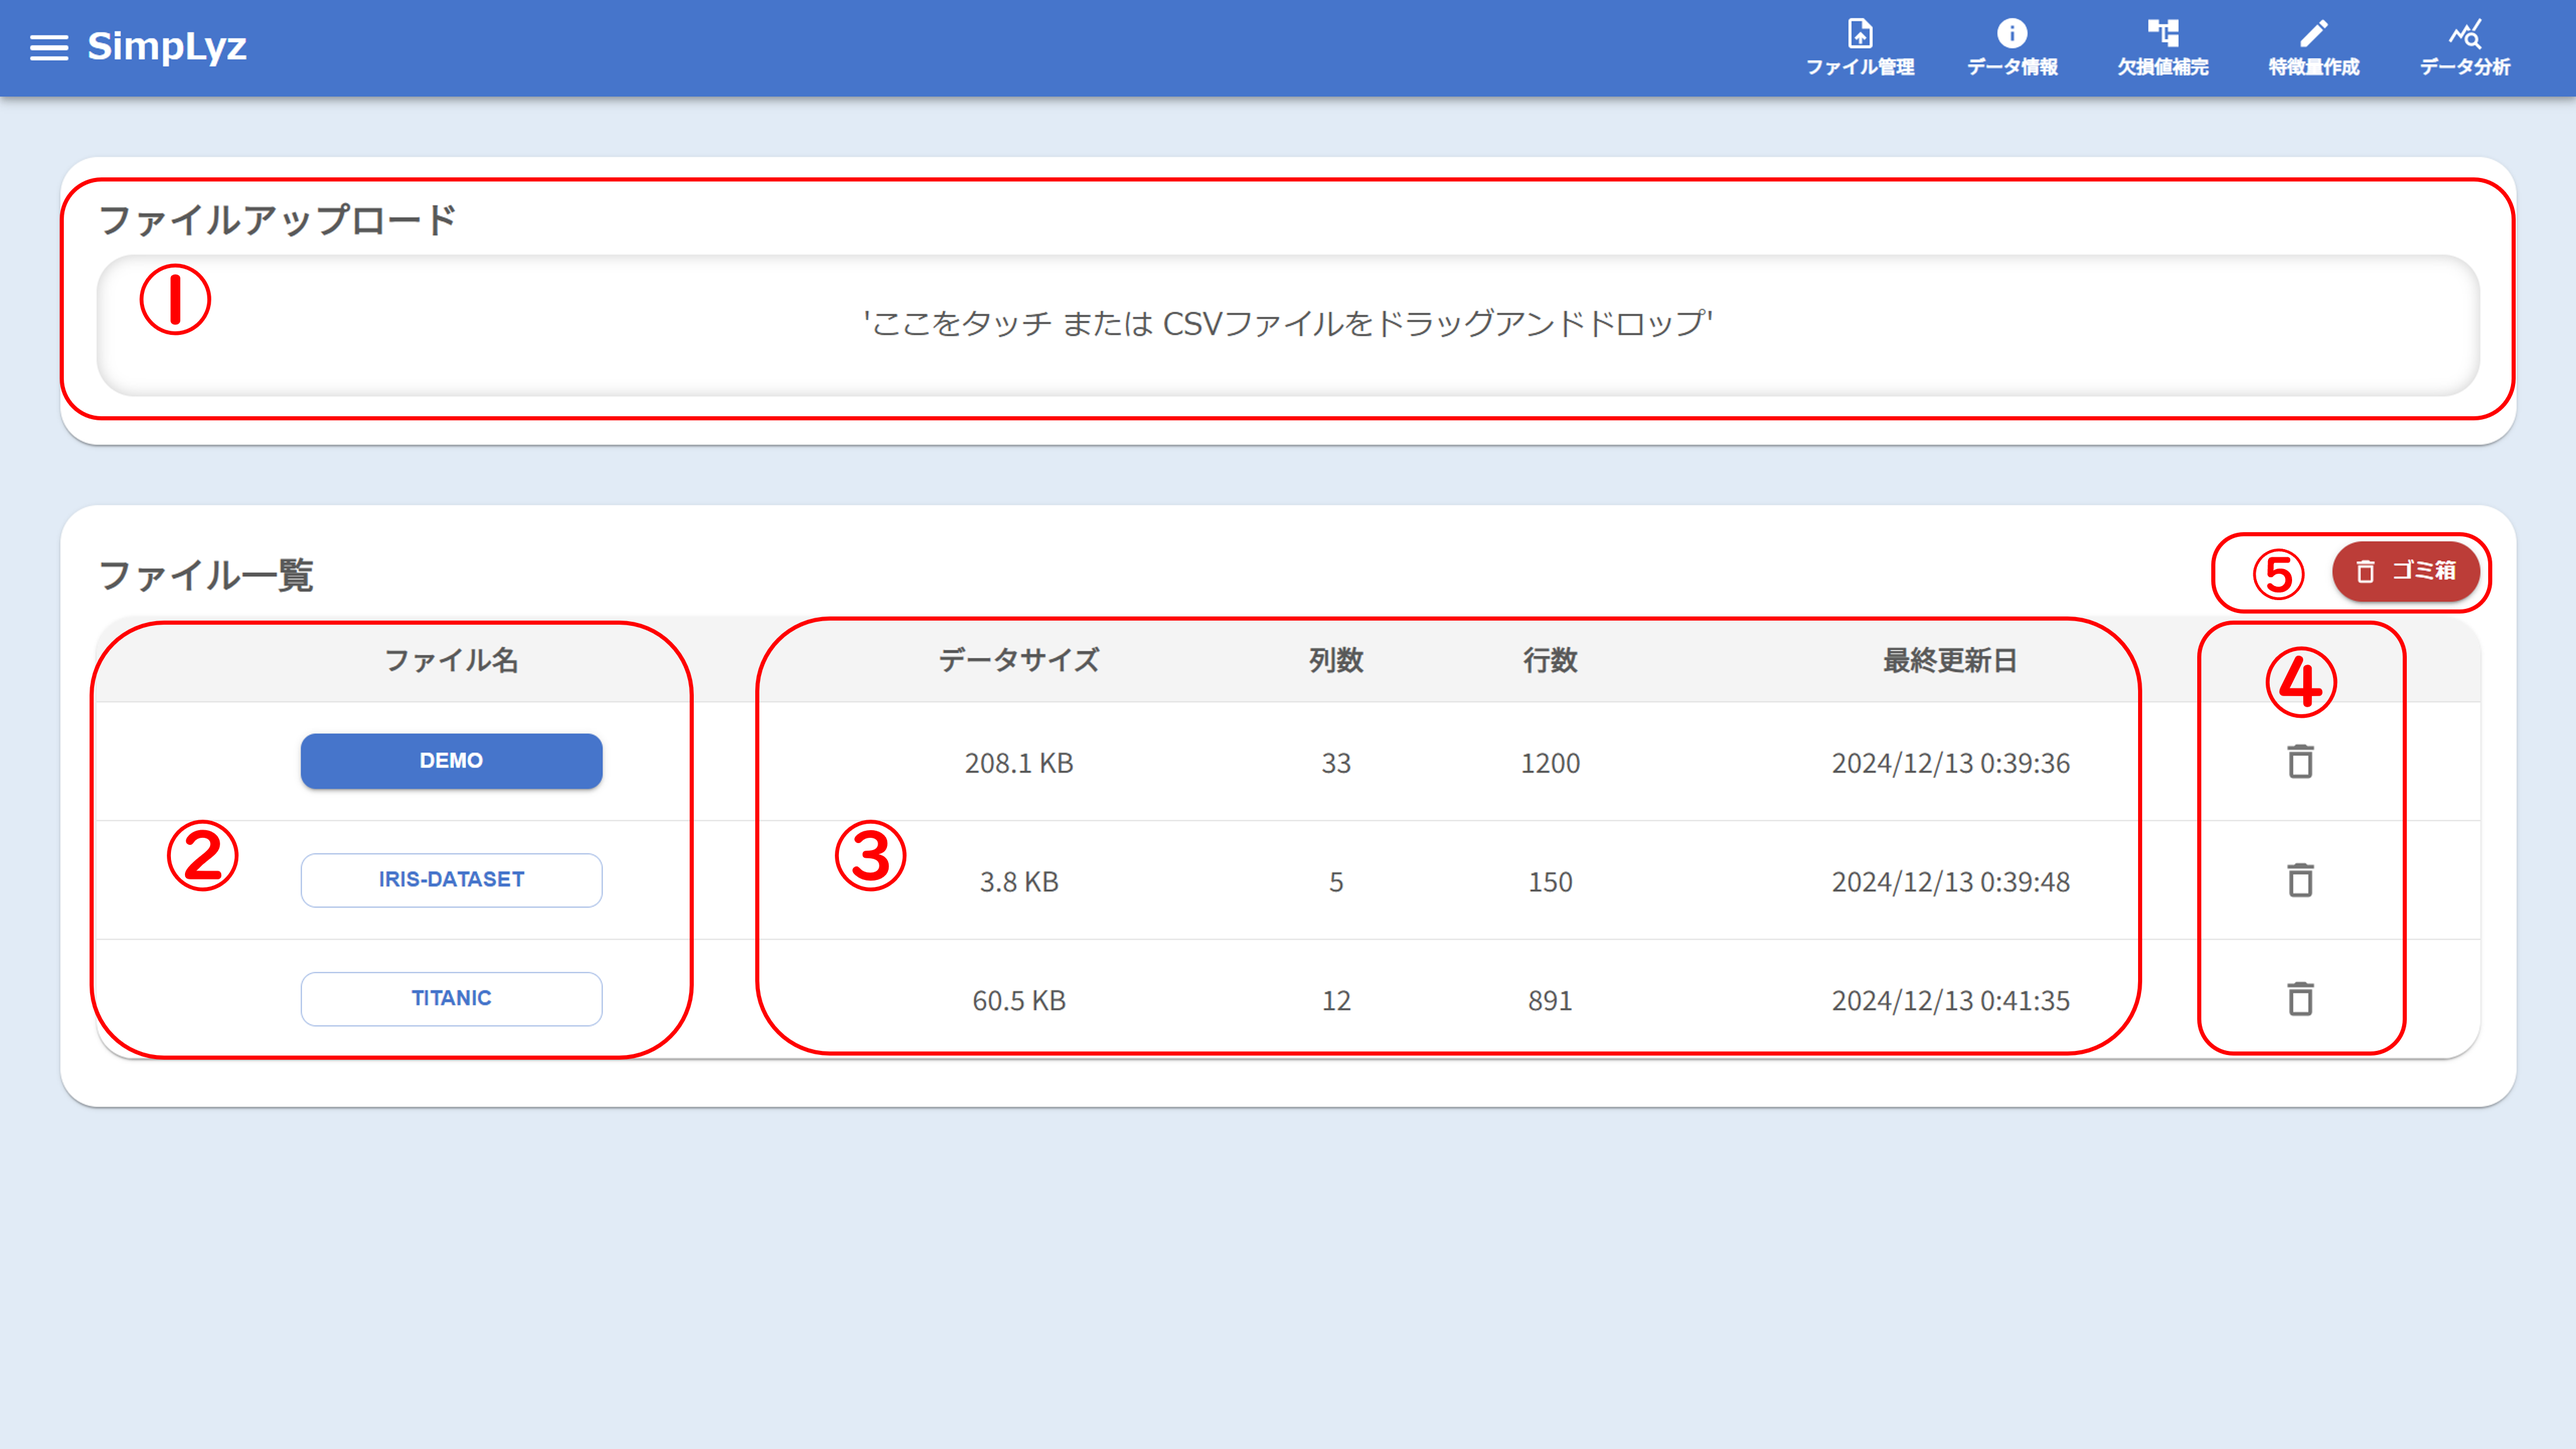
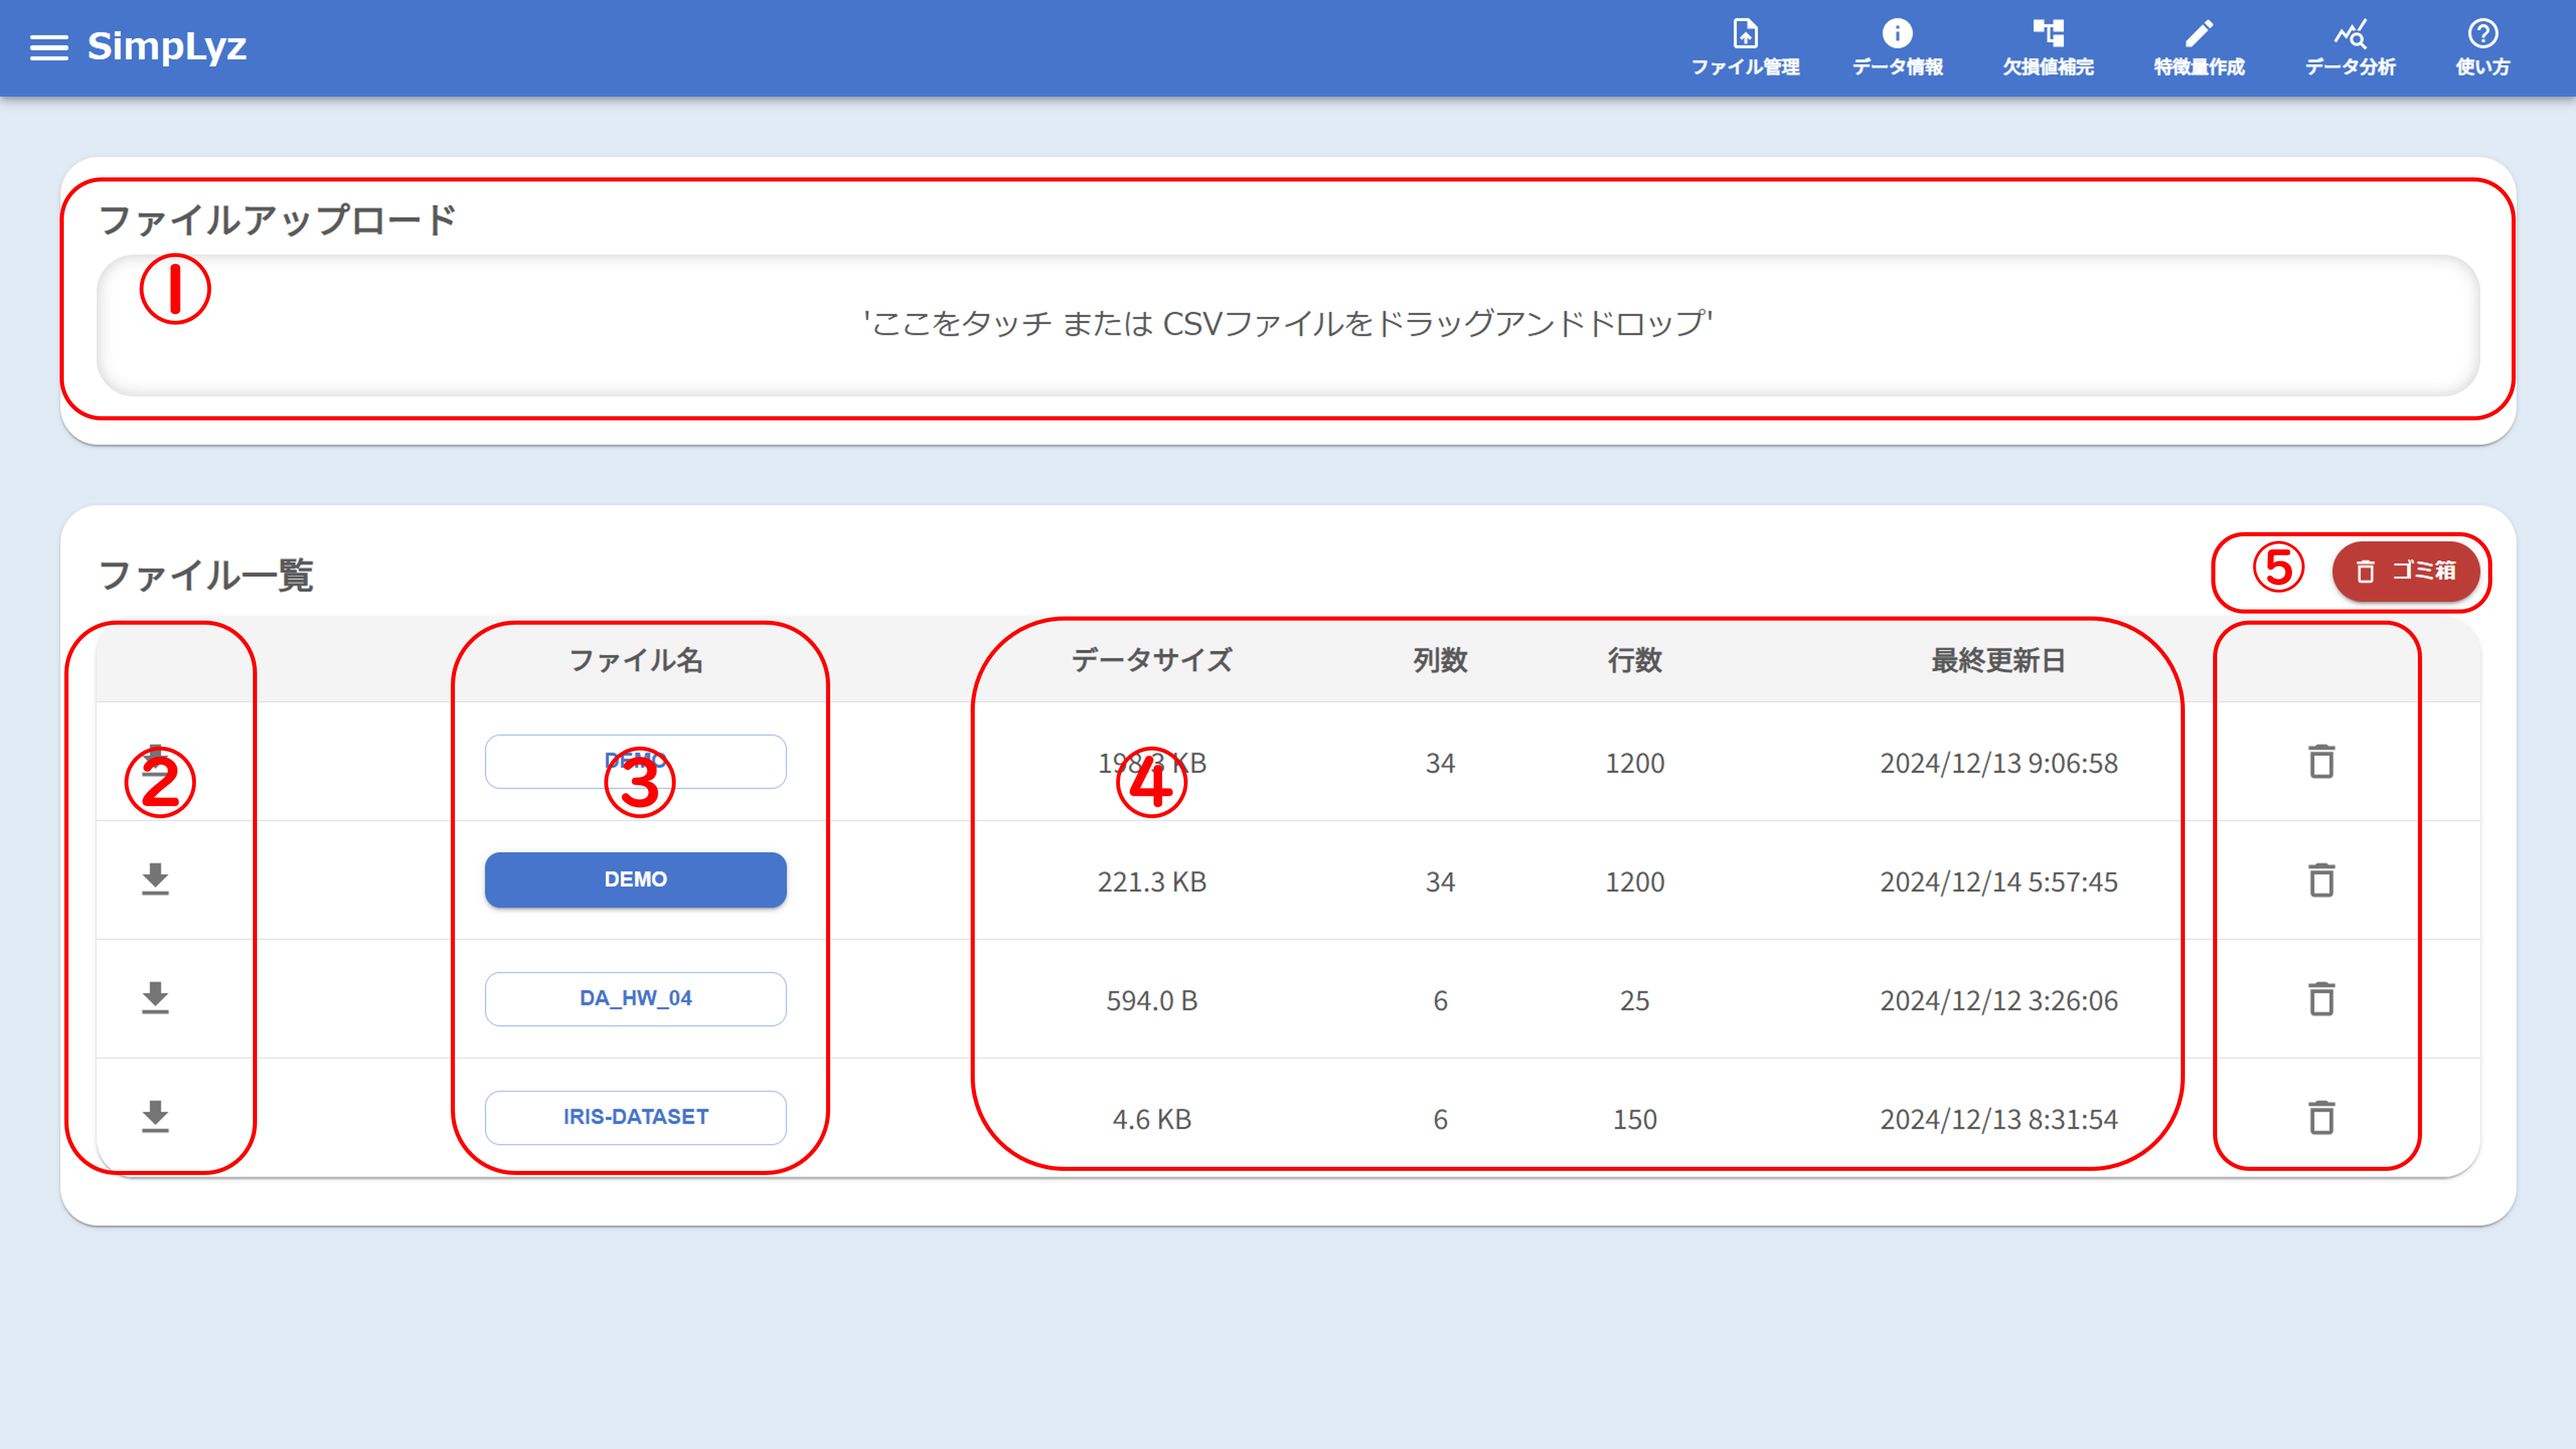
csvファイルのダウンロード機能完成

diff --git a/dev/frontend/src/components/ToolGuide/ToolPages/ManagementFileExplanation.tsx b/dev/frontend/src/components/ToolGuide/ToolPages/ManagementFileExplanation.tsx
@@ -14,6 +14,11 @@ const ManagementFileExplanation: React.FC = () => {
                 - タップして選択: このエリアをタップするとエクスプローラーが開き、CSVファイルを選択することができます。  
                 初心者でも簡単にデータを取り込むことができる、直感的なインターフェースです。`,
 
+                `【ファイルダウンロードボタン】
+                ここではCSVファイルをダウンロードすることができます。
+                ダウンロードアイコンをクリックすることで任意のCSVファイルをダウンロードすることが可能です。
+                `,
+
                 `【ファイル名選択ボタン】  
                 アップロードされたファイルが一覧形式で表示されます。
                 それぞれのファイル名はボタンとして機能し、クリックすることでそのファイルを選択してデータ分析を開始することができます。たとえば、「DEMO」というボタンをクリックすると、そのデータセットを使用して分析操作を行う準備が整います。`,

diff --git a/dev/frontend/src/databaseUtils/Csvs.tsx b/dev/frontend/src/databaseUtils/Csvs.tsx
@@ -64,10 +64,16 @@ export const downloadCsvFile = async (
   csvId: string, fileName: string
 ): Promise<string> => {
   try {
-    const response = await axios.get<Blob>(`/download_csv/${csvId}`, {
+    const response = await axios.get<Blob>(`${DATABASE_URL}download_csv/${csvId}`, {
       responseType: "blob",
     });
-    console.log(`response.data: ${response.data}`)
+
+    // HTTPステータスコードを確認
+    if (response.status !== 200) {
+      const errorText = await response.data.text();
+      throw new Error(`Failed to download CSV: ${errorText}`);
+    }
+
     saveAs(response.data, fileName);
     return "Success";
   } catch (error) {

diff --git a/dev/golang/csvs/csvs.go b/dev/golang/csvs/csvs.go
@@ -99,13 +99,13 @@ func DownloadCsv(c *gin.Context, db *gorm.DB) {
 	}
 
 	// ファイルデータを取得
-	csvData := []byte(csvFile.CsvFile) // CsvFileは文字列またはバイナリとして保存されていると仮定
+	// csvData := []byte(csvFile.CsvFile) // CsvFileは文字列またはバイナリとして保存されていると仮定
 
 	// ヘッダーを設定してCSVを直接送信
 	c.Header("Content-Description", "File Transfer")
-	c.Header("Content-Disposition", "attachment; filename=output.csv")
-	c.Header("Content-Type", "text/csv")
-	c.Data(http.StatusOK, "text/csv", csvData)
+	c.Header("Content-Disposition", fmt.Sprintf("attachment; filename=\"%s.csv\"", csvFile.FileName))
+	c.Header("Content-Type", "text/csv; charset=utf-8")
+	c.Data(http.StatusOK, "text/csv; charset=utf-8", []byte(csvFile.CsvFile))
 }
 
 // csvファイルをアップロードする関数
